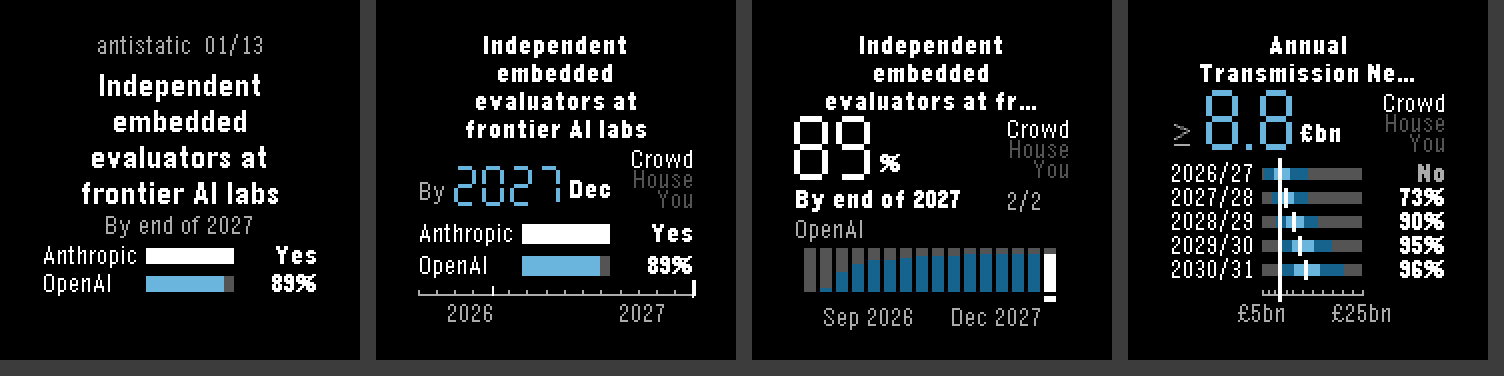
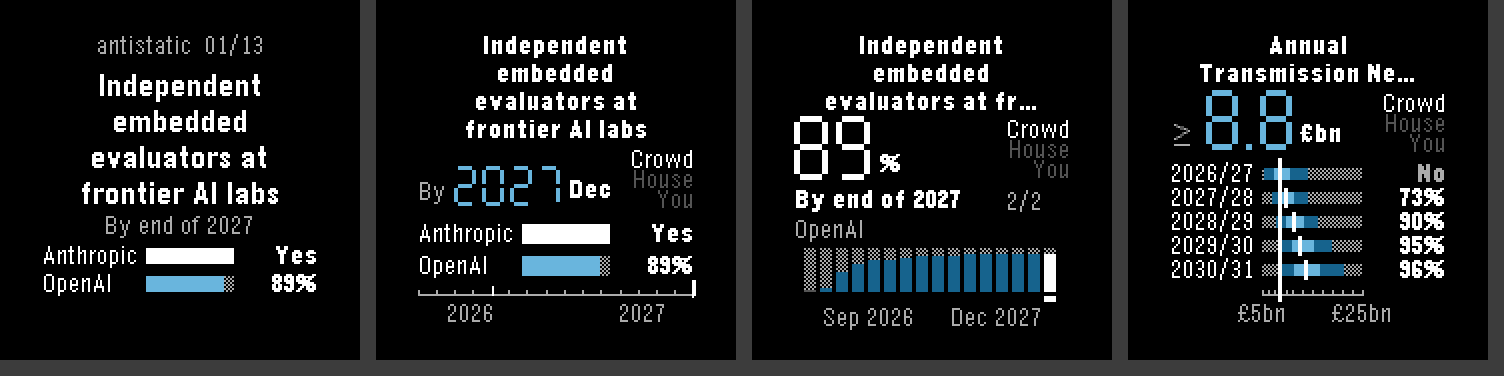
Dithered grey: the unlit part of every bar is a light-grey screen-door on colour watches, as the tracks are on black-and-white ones; the point chart's bars on black-and-white watches are dithered again (sparser for settled no), the selected one solid. README screenshots retaken. 1.0.2

diff --git a/src/c/detail_window.c b/src/c/detail_window.c
@@ -94,18 +94,18 @@ static void update(Layer *layer, GContext *ctx) {
     bool sel = first + i == s_idx;
 #if defined(PBL_COLOR)
     bool qres = q->flags & PF_RESOLVED;
-    graphics_context_set_fill_color(ctx, C_GHOST);
-    graphics_fill_rect(ctx, GRect(bx, ch.origin.y, bw, ch.size.h - h), 0, GCornerNone);
+    draw_track(ctx, GRect(bx, ch.origin.y, bw, ch.size.h - h));
     GColor col = sel ? C_LIT : (qres ? ((q->flags & PF_YES) ? C_BAR : GColorDarkGray) : C_BAND_OUT);
     if (sel && qres && (q->flags & PF_YES)) col = C_BAR;
     graphics_context_set_fill_color(ctx, col);
     graphics_fill_rect(ctx, GRect(bx, base - h, bw, h), 0, GCornerNone);
 #else
-    // The selected bar solid, the rest in outline.
+    // The selected bar solid, the rest dithered; settled-No bars sparser.
+    bool qres = q->flags & PF_RESOLVED;
     graphics_context_set_fill_color(ctx, GColorWhite);
     graphics_context_set_stroke_color(ctx, GColorWhite);
-    if (sel || bw < 3 || h < 3) graphics_fill_rect(ctx, GRect(bx, base - h, bw, h), 0, GCornerNone);
-    else graphics_draw_rect(ctx, GRect(bx, base - h, bw, h));
+    if (sel) graphics_fill_rect(ctx, GRect(bx, base - h, bw, h), 0, GCornerNone);
+    else fill_dither(ctx, GRect(bx, base - h, bw, h), qres && !(q->flags & PF_YES) ? 4 : 2);
 #endif
   }
 

diff --git a/src/c/draw.c b/src/c/draw.c
@@ -38,13 +38,8 @@ void fill_dither(GContext *ctx, GRect r, int density) {
 
 // The unlit part of a bar.
 void draw_track(GContext *ctx, GRect r) {
-#if defined(PBL_COLOR)
-  graphics_context_set_fill_color(ctx, C_GHOST);
-  graphics_fill_rect(ctx, r, 0, GCornerNone);
-#else
-  graphics_context_set_stroke_color(ctx, GColorWhite);
-  fill_dither(ctx, r, 4);
-#endif
+  graphics_context_set_stroke_color(ctx, PBL_IF_COLOR_ELSE(GColorLightGray, GColorWhite));
+  fill_dither(ctx, r, PBL_IF_COLOR_ELSE(2, 4));
 }
 
 void draw_text(GContext *ctx, const char *s, GFont font, GRect r, GTextAlignment align, GColor color) {
